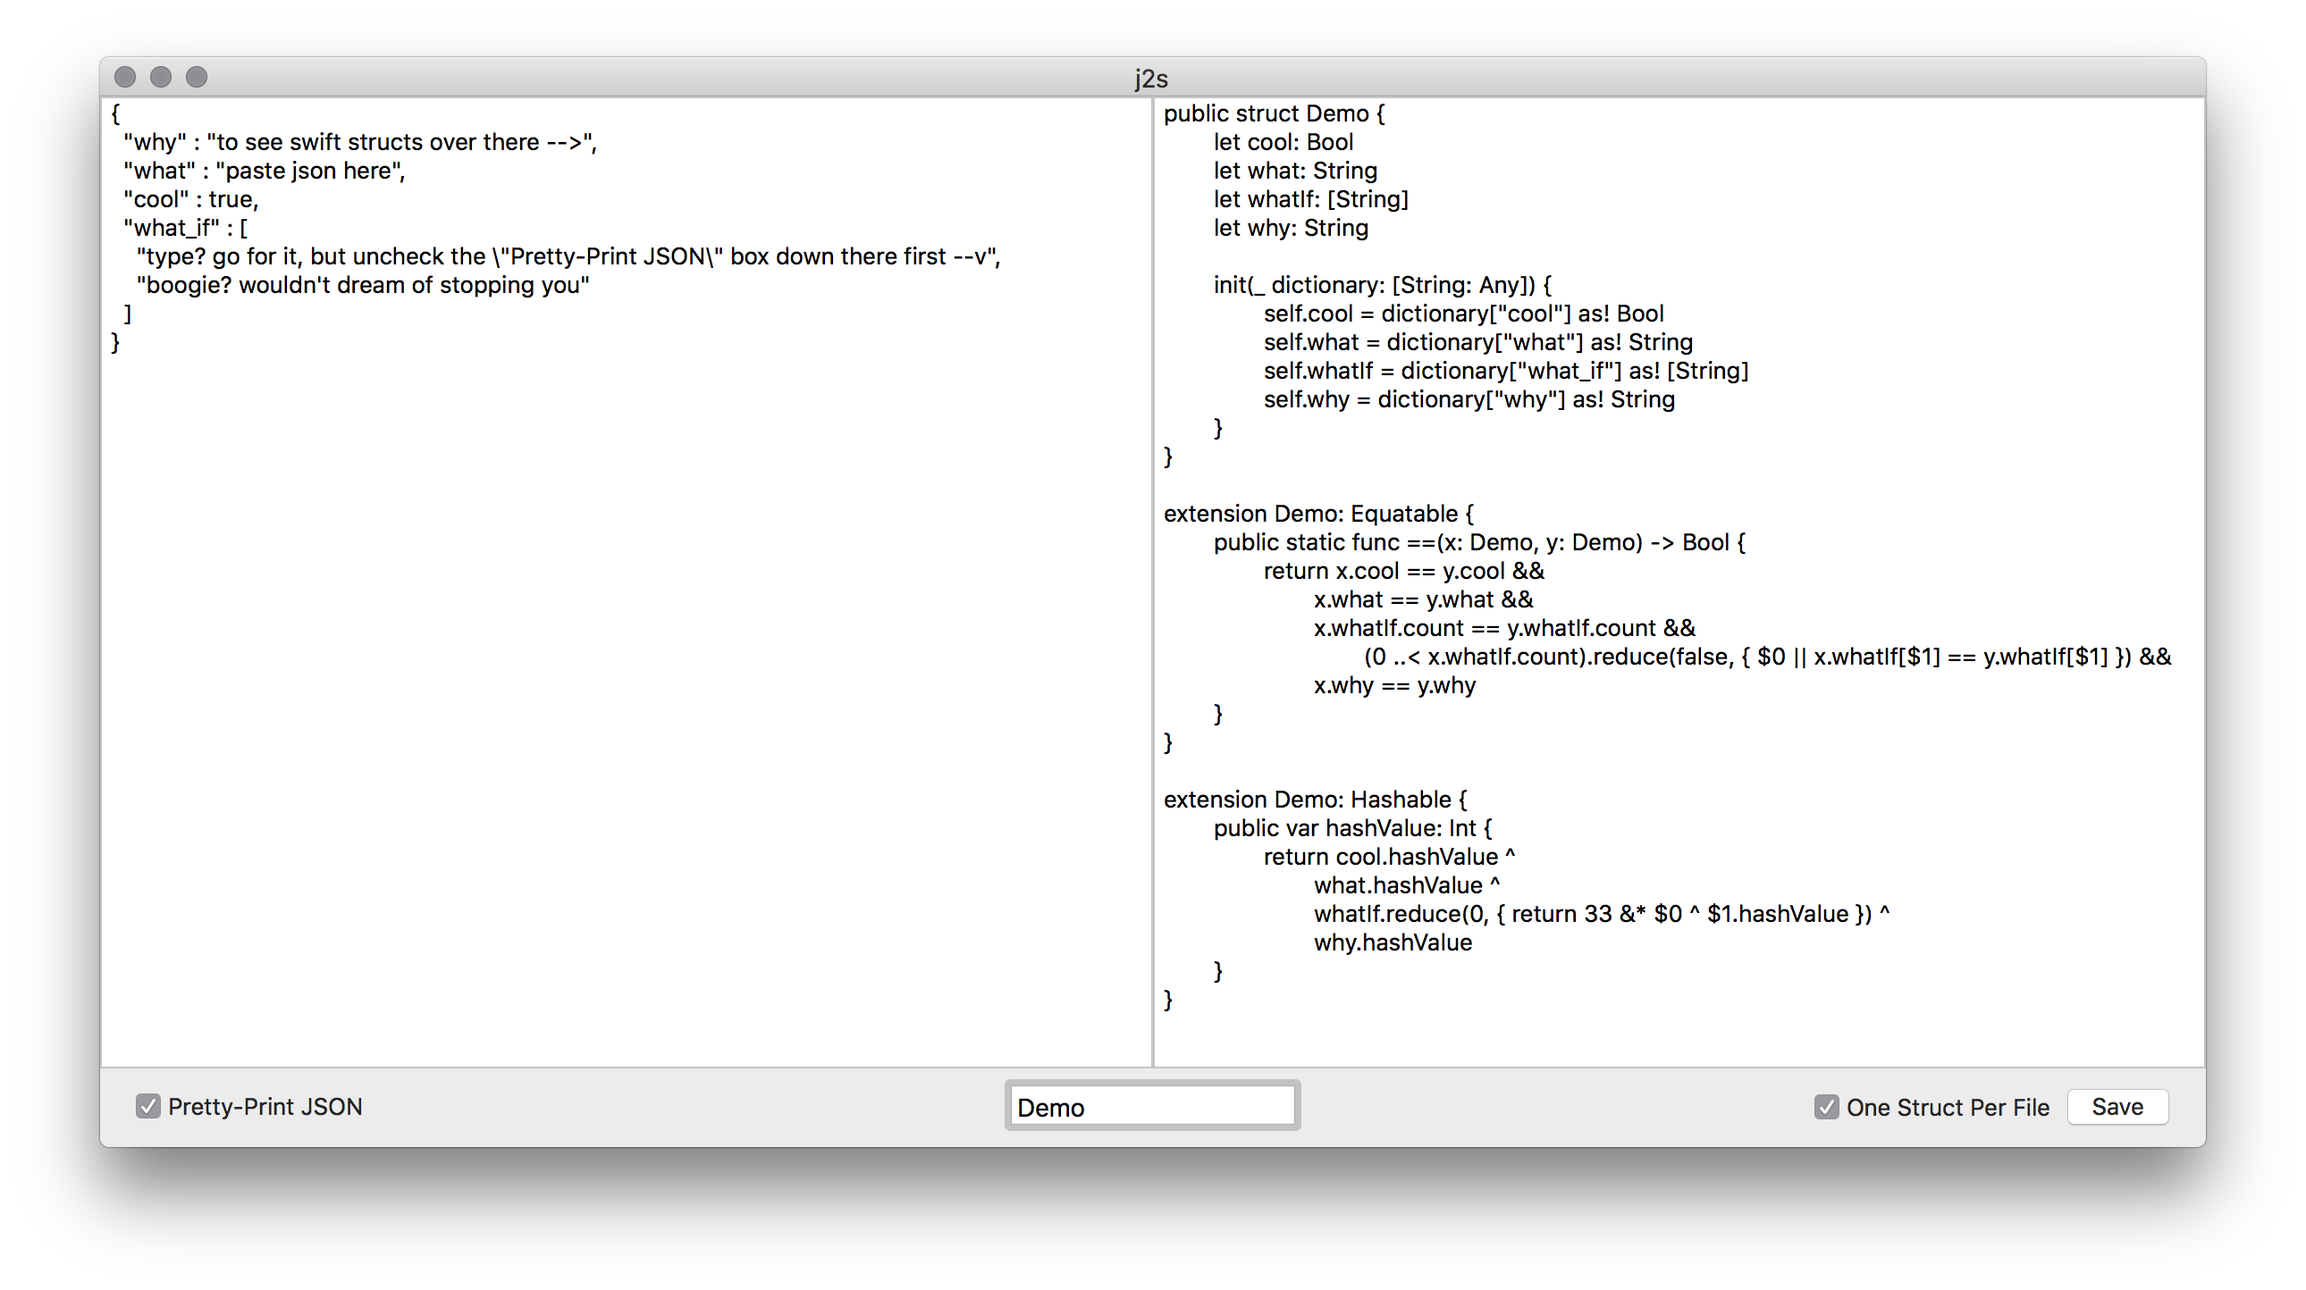
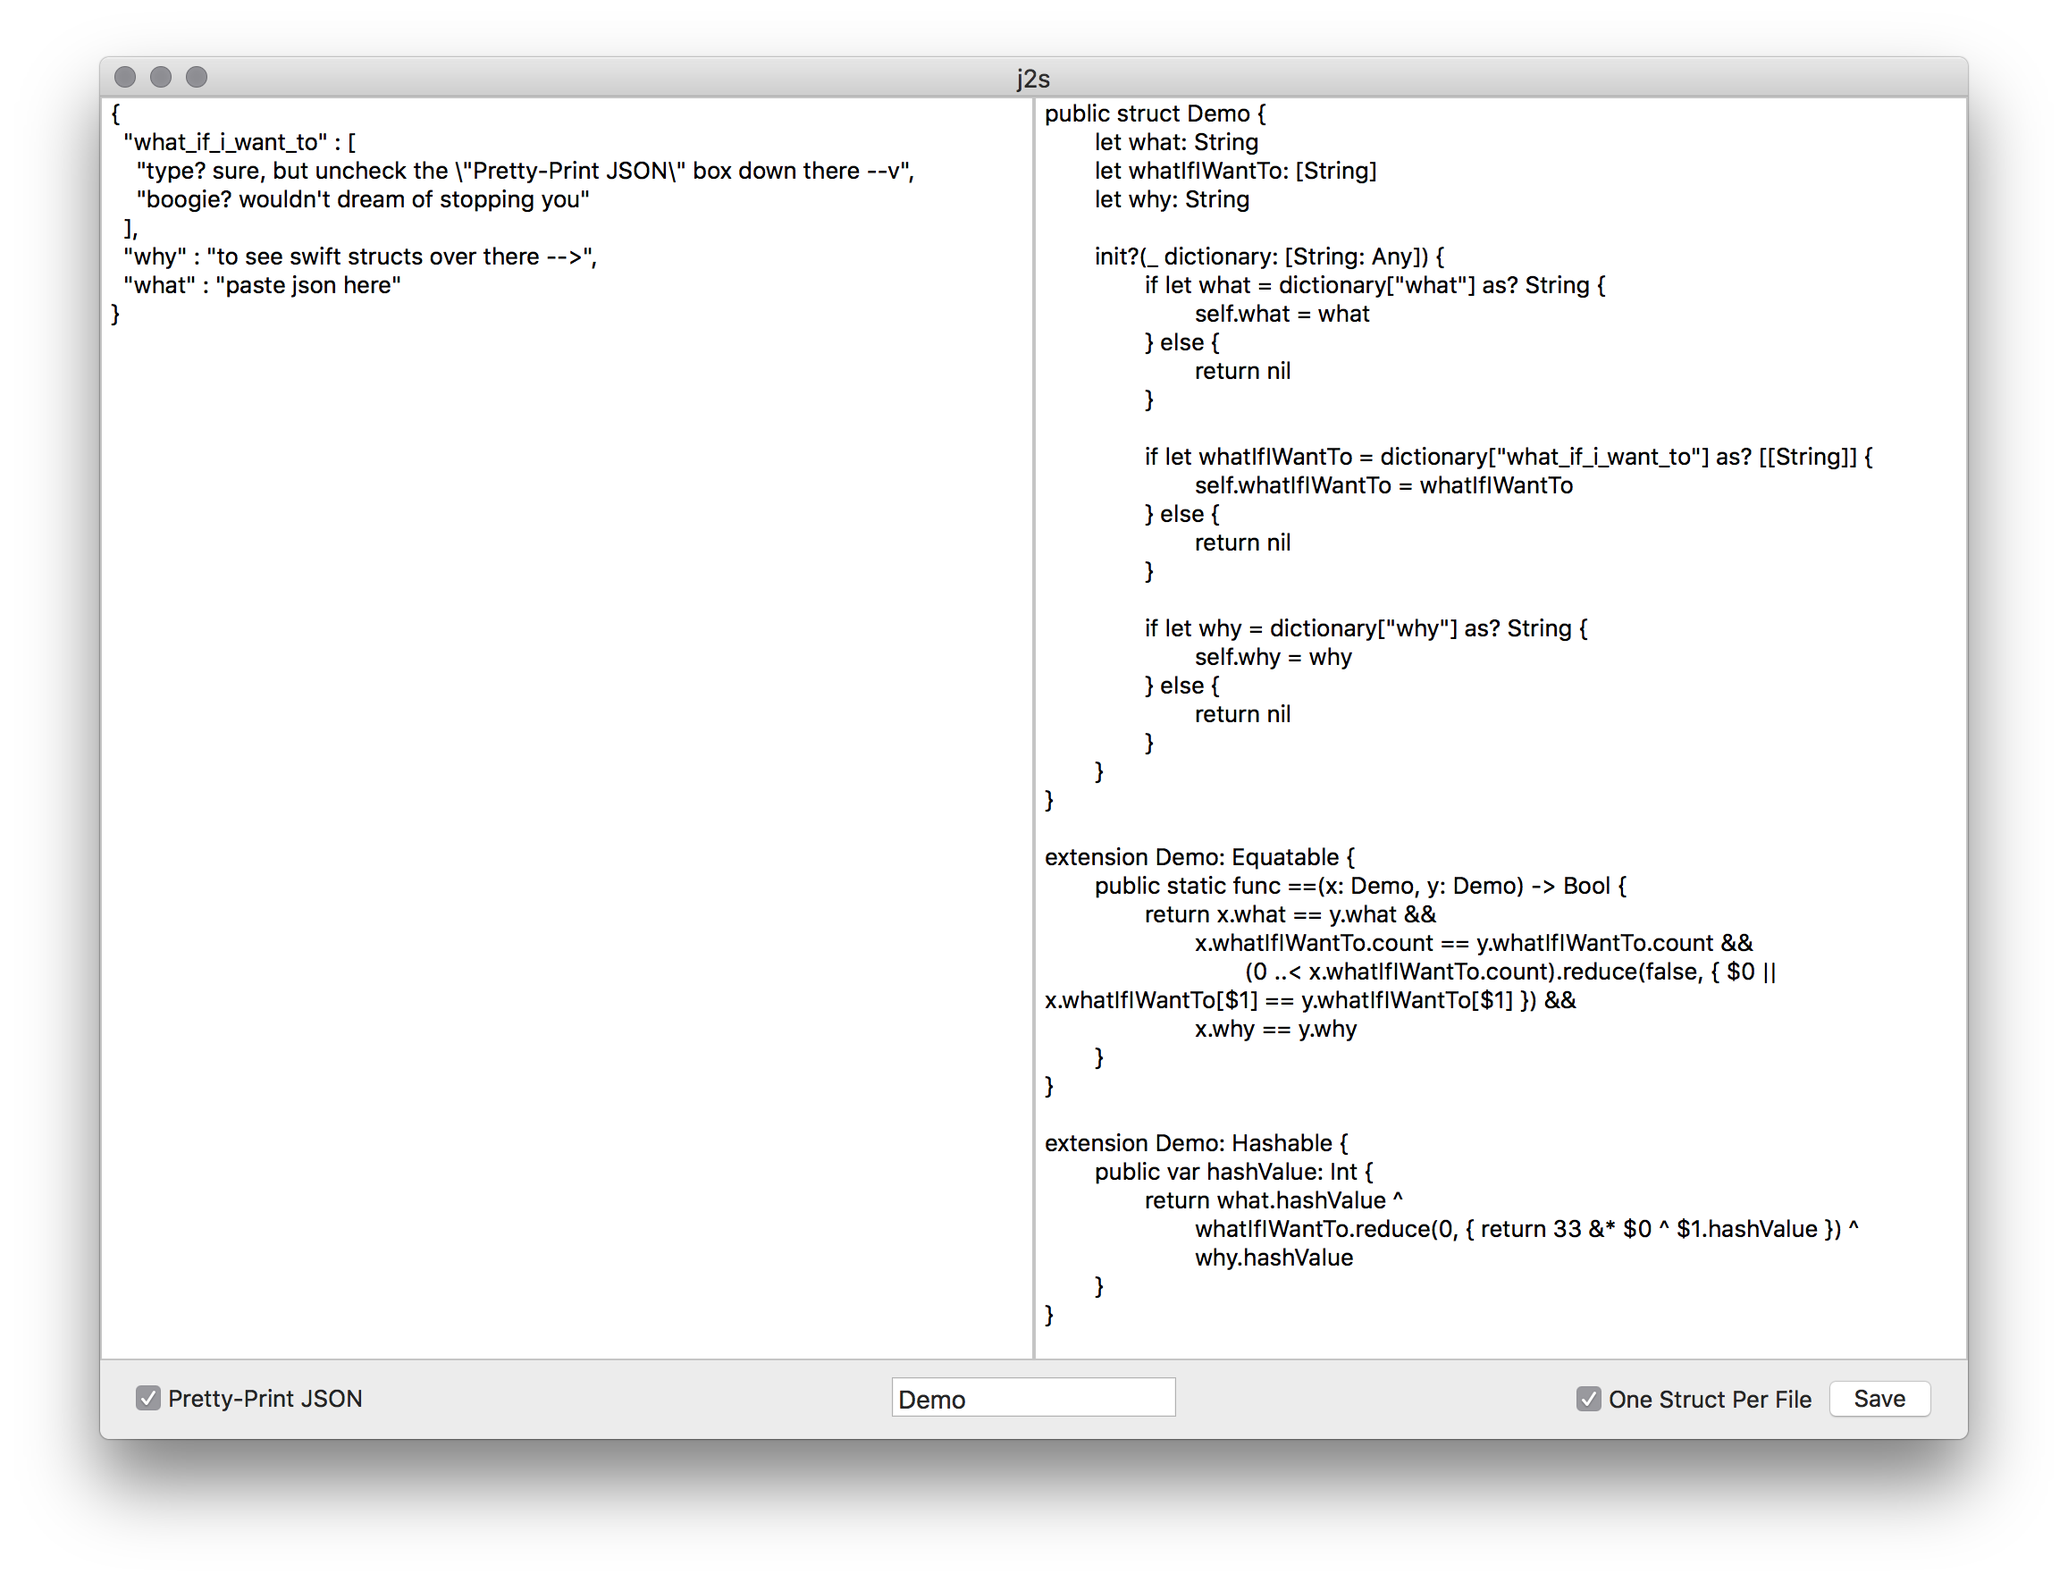
generate failable initializers instead of as!'ing

Changed region(s): [[0.0311, 0.0312, 0.9646, 0.9349], [0.7156, 0.7479, 0.8712, 0.7791]]

diff --git a/j2s/codegen.swift b/j2s/codegen.swift
@@ -7,14 +7,14 @@ public struct Struct: CustomStringConvertible {
     public var description: String {
         let typeName = name.generatedClassName()
         var d = ""
-        properties.forEach {
-            if !$0.dateFormat.isEmpty {
-                d += "\nprivate let \(typeName)DateFormatter\(abs($0.dateFormat.hashValue)): DateFormatter = {"
-                d += "\n\tvar dateFormatter = DateFormatter()"
-                d += "\n\tdateFormatter.dateFormat = \"\($0.dateFormat)\""
-                d += "\n\treturn dateFormatter"
-                d += "\n}()\n\n"
-            }
+        properties.filter {
+            return !$0.dateFormat.isEmpty
+        } .forEach {
+            d += "\nprivate let \(typeName)DateFormatter\(abs($0.dateFormat.hashValue)): DateFormatter = {"
+            d += "\n\tvar dateFormatter = DateFormatter()"
+            d += "\n\tdateFormatter.dateFormat = \"\($0.dateFormat)\""
+            d += "\n\treturn dateFormatter"
+            d += "\n}()\n\n"
         }
 
         d += "public struct \(typeName) {"
@@ -39,7 +39,7 @@ public struct Struct: CustomStringConvertible {
     }
 
     private var initCode: String {
-        var i = "\tinit(_ dictionary: [String: Any]) {"
+        var i = "\tinit?(_ dictionary: [String: Any]) {"
         i += initInitializationCode
         i += "\n\t}"
         return i
@@ -48,48 +48,80 @@ public struct Struct: CustomStringConvertible {
     private var initInitializationCode: String {
         let sorted = properties.sorted(by: { x, y in return x.name < y.name })
         let lets: [String] = sorted.map {
-            if $0.isArray {
-                if $0.internetPrimitive {
-                    let a = $0.isOptional ? "as?" : "as!"
-                    return "self.\($0.name.camelCased()) = dictionary[\"\($0.name)\"] \(a) \($0.type)"
-                }
-
-                if $0.isOptional {
-                    var letString = "\n\t\tif let \($0.name.camelCased()) = dictionary[\"\($0.name)\"] as? [[String: Any]] {"
-                    letString += "\n\t\t\tself.\($0.name.camelCased()) = \($0.name.camelCased()).flatMap { return \($0.name.generatedClassName())($0) }"
+            if !$0.dateFormat.isEmpty {
+                if $0.isArray && $0.isOptional {
+                    var letString = "\n\t\tif let \($0.name.camelCased()) = dictionary[\"\($0.name)\"] as? [String] {"
+                    letString += "\n\t\t\tself.\($0.name.camelCased()) = \($0.name.camelCased()).flatMap {"
+                    letString += "\n\t\t\t\treturn \(name.generatedClassName())DateFormatter\(abs($0.dateFormat.hashValue)).date(from: $0)"
+                    letString += "\n\t\t\t}"
+                    letString += "\n\t\t} else {"
+                    letString += "\n\t\t\tself.\($0.name.camelCased()) = nil"
+                    letString += "\n\t\t\t}"
+                    return letString
+                } else if $0.isOptional {
+                    var letString = "\n\t\tif let \($0.name.camelCased()) = dictionary[\"\($0.name)\"] as? String {"
+                    letString += "\n\t\t\tself.\($0.name.camelCased()) = \(name.generatedClassName())DateFormatter\(abs($0.dateFormat.hashValue)).date(from: \($0.name.camelCased()))"
                     letString += "\n\t\t} else {"
                     letString += "\n\t\t\tself.\($0.name.camelCased()) = nil"
                     letString += "\n\t\t}"
                     return letString
+                } else {
+                    var letString = "\n\t\tif let \($0.name.camelCased()) = dictionary[\"\($0.name)\"] as? String {"
+                    letString += "\n\t\t\tself.\($0.name.camelCased()) = \(name.generatedClassName())DateFormatter\(abs($0.dateFormat.hashValue)).date(from: \($0.name.camelCased()))"
+                    letString += "\n\t\t} else {"
+                    letString += "\n\t\t\treturn nil"
+                    letString += "\n\t\t}"
+                    return letString
                 }
-
-                var letString = "\n\t\tlet \($0.name.camelCased()) = dictionary[\"\($0.name)\"] as! [[String: Any]]"
-                letString += "\n\t\tself.\($0.name.camelCased()) = \($0.name.camelCased()).flatMap { return \($0.name.generatedClassName())($0) }"
+            } else if $0.isArray && $0.isOptional && $0.internetPrimitive {
+                var letString = "\n\t\tif let \($0.name.camelCased()) = dictionary[\"\($0.name)\"] as? [\($0.type)] {"
+                letString += "\n\t\t\tself.\($0.name.camelCased()) = \($0.name.camelCased())"
+                letString += "\n\t\t} else {"
+                letString += "\n\t\t\tself.\($0.name.camelCased()) = nil"
+                letString += "\n\t\t}"
                 return letString
-            } else if !$0.internetPrimitive {
-                if $0.isOptional {
-                    var letString = "\n\t\tif let \($0.name.camelCased()) = dictionary[\"\($0.name)\"] as? [String: Any] {"
-                    letString += "\n\t\t\tself.\($0.name.camelCased()) = \($0.type)(\($0.name.camelCased()))"
-                    letString += "\n\t\t} else {"
-                    letString += "\n\t\t\tself.\($0.name.camelCased()) = nil"
-                    letString += "\n\t\t}"
-                    return letString
-                }
-
-                return "self.\($0.name.camelCased()) = \($0.type)(dictionary[\"\($0.name)\"] as! [String: Any])"
-            } else if $0.isURL {
-                if $0.isOptional {
-                    return "self.\($0.name.camelCased()) = URL(string: (dictionary[\"\($0.name)\"] as? String))"
-                }
-                return "self.\($0.name.camelCased()) = URL(string: (dictionary[\"\($0.name)\"] as! String))!"
-            } else if !$0.dateFormat.isEmpty {
-                if $0.isOptional {
-                    return "self.\($0.name.camelCased()) = \(name.generatedClassName())DateFormatter\(abs($0.dateFormat.hashValue)).date(from: (dictionary[\"\($0.name)\"] as? String))"
-                }
-                return "self.\($0.name.camelCased()) = \(name.generatedClassName())DateFormatter\(abs($0.dateFormat.hashValue)).date(from: (dictionary[\"\($0.name)\"] as! String))!"
-            } else {
-                let a = $0.isOptional ? "as?" : "as!"
-                return "self.\($0.name.camelCased()) = dictionary[\"\($0.name)\"] \(a) \($0.type)"
+            } else if $0.isArray && $0.isOptional {
+                var letString = "\n\t\tif let \($0.name.camelCased()) = dictionary[\"\($0.name)\"] as? [[String: Any]] {"
+                letString += "\n\t\t\tself.\($0.name.camelCased()) = \($0.name.camelCased()).flatMap { return \($0.name.generatedClassName())($0) }"
+                letString += "\n\t\t} else {"
+                letString += "\n\t\t\tself.\($0.name.camelCased()) = nil"
+                letString += "\n\t\t}"
+                return letString
+            } else if $0.isArray && $0.internetPrimitive {
+                var letString = "\n\t\tif let \($0.name.camelCased()) = dictionary[\"\($0.name)\"] as? [\($0.type)] {"
+                letString += "\n\t\t\tself.\($0.name.camelCased()) = \($0.name.camelCased())"
+                letString += "\n\t\t} else {"
+                letString += "\n\t\t\treturn nil"
+                letString += "\n\t\t}"
+                return letString
+            } else if $0.isOptional && $0.internetPrimitive {
+                var letString = "\n\t\tif let \($0.name.camelCased()) = dictionary[\"\($0.name)\"] as? \($0.type) {"
+                letString += "\n\t\t\tself.\($0.name.camelCased()) = \($0.name.camelCased())"
+                letString += "\n\t\t} else {"
+                letString += "\n\t\t\tself.\($0.name.camelCased()) = nil"
+                letString += "\n\t\t}"
+                return letString
+            } else if $0.internetPrimitive {
+                var letString = "\n\t\tif let \($0.name.camelCased()) = dictionary[\"\($0.name)\"] as? \($0.type) {"
+                letString += "\n\t\t\tself.\($0.name.camelCased()) = \($0.name.camelCased())"
+                letString += "\n\t\t} else {"
+                letString += "\n\t\t\treturn nil"
+                letString += "\n\t\t}"
+                return letString
+            } else if $0.isOptional {
+                var letString = "\n\t\tif let \($0.name.camelCased()) = dictionary[\"\($0.name)\"] as? [String: Any] {"
+                letString += "\n\t\t\tself.\($0.name.camelCased()) = \($0.name.generatedClassName())(\($0.name.camelCased()))"
+                letString += "\n\t\t} else {"
+                letString += "\n\t\t\tself.\($0.name.camelCased()) = nil"
+                letString += "\n\t\t}"
+                return letString
+            } else { // single non-optional object
+                var letString = "\n\t\tif let \($0.name.camelCased()) = dictionary[\"\($0.name)\"] as? [String: Any] {"
+                letString += "\n\t\t\tself.\($0.name.camelCased()) = \($0.name.generatedClassName())(\($0.name.camelCased()))"
+                letString += "\n\t\t} else {"
+                letString += "\n\t\t\treturn nil"
+                letString += "\n\t\t}"
+                return letString
             }
         }
 
@@ -151,19 +183,19 @@ public struct Struct: CustomStringConvertible {
 public struct Property: Equatable, Hashable {
     let name: String
     let type: String
+
     let internetPrimitive: Bool
-    let dateFormat: String
     let isArray: Bool
-    let isURL: Bool
     let isOptional: Bool
 
-    init(name: String, type: String, dateFormat: String = "", internetPrimitive: Bool = true, isArray: Bool = false, isURL: Bool = false, isOptional: Bool = false) {
+    let dateFormat: String
+
+    init(name: String, type: String, dateFormat: String = "", internetPrimitive: Bool = true, isArray: Bool = false, isOptional: Bool = false) {
         self.name = name
         self.type = type
         self.dateFormat = dateFormat
         self.internetPrimitive = internetPrimitive
         self.isArray = isArray
-        self.isURL = isURL
         self.isOptional = isOptional
     }
 
@@ -173,7 +205,6 @@ public struct Property: Equatable, Hashable {
             x.dateFormat == y.dateFormat &&
             x.internetPrimitive == y.internetPrimitive &&
             x.isArray == y.isArray &&
-            x.isURL == y.isURL &&
             x.isOptional == y.isOptional
     }
 
@@ -183,7 +214,6 @@ public struct Property: Equatable, Hashable {
             dateFormat.hashValue ^
             internetPrimitive.hashValue ^
             isArray.hashValue ^
-            isURL.hashValue ^
             isOptional.hashValue
     }
 }

diff --git a/j2s/structify.swift b/j2s/structify.swift
@@ -12,7 +12,7 @@ func structify(name: String = "root", json: [String: Any]) -> [Struct] {
             case .string(_): properties.insert(Property(name: name, type: "String"))
             case .null: properties.insert(Property(name: name, type: "NSNull"))
             case .date(_, let format): properties.insert(Property(name: name, type: "Date", dateFormat: format))
-            case .url(_): properties.insert(Property(name: name, type: "URL", isURL: true))
+            case .url(_): properties.insert(Property(name: name, type: "URL", internetPrimitive: false))
             case .dictionary(let d):
                 properties.insert(Property(name: name, type: name.generatedClassName(), internetPrimitive: false))
                 structs.append(contentsOf: structify(name: name, json: d))
@@ -42,7 +42,7 @@ func structify(name: String = "root", json: [String: Any]) -> [Struct] {
                         case .double(_): properties.insert(Property(name: name, type: "[Double]", isArray: true))
                         case .string(_): properties.insert(Property(name: name, type: "[String]", isArray: true))
                         case .date(_): properties.insert(Property(name: name, type: "[Date]", isArray: true))
-                        case .url(_):  properties.insert(Property(name: name, type: "[URL]", isArray: true))
+                        case .url(_):  properties.insert(Property(name: name, type: "[URL]", internetPrimitive: false, isArray: true))
                         case .array(let a):
                             let subjson = JSON(value: a)!
                             let type = handleJSON!(name, subjson)

diff --git a/README.md b/README.md
@@ -22,13 +22,12 @@ j2s can take in the following JSON:
 
 ```json
 {
-  "what" : "paste json here",
-  "why" : "to see swift structs over there -->",
   "what_if_i_want_to" : [
-    "type? go for it, but uncheck the \"Pretty-Print JSON\" box down there first --v",
+    "type? sure, but uncheck the \"Pretty-Print JSON\" box down there --v",
     "boogie? wouldn't dream of stopping you"
   ],
-  "cool" : true
+  "why" : "to see swift structs over there -->",
+  "what" : "paste json here"
 }
 ```
 
@@ -36,33 +35,43 @@ and turn it into Swift code that looks like this:
 
 ```swift
 public struct Demo {
-	let cool: Bool
 	let what: String
 	let whatIfIWantTo: [String]
 	let why: String
 
-	init(_ dictionary: [String: Any]) {
-		self.cool = dictionary["cool"] as! Bool
-		self.what = dictionary["what"] as! String
-		self.whatIfIWantTo = dictionary["what_if_i_want_to"] as! [String]
-		self.why = dictionary["why"] as! String
+	init?(_ dictionary: [String: Any]) {
+		if let what = dictionary["what"] as? String {
+			self.what = what
+		} else {
+			return nil
+		}
+		
+		if let whatIfIWantTo = dictionary["what_if_i_want_to"] as? [[String]] {
+			self.whatIfIWantTo = whatIfIWantTo
+		} else {
+			return nil
+		}
+		
+		if let why = dictionary["why"] as? String {
+			self.why = why
+		} else {
+			return nil
+		}
 	}
 }
 
 extension Demo: Equatable {
- 	static func ==(x: Demo, y: Demo) -> Bool {
-		return x.cool == y.cool && 
-			x.what == y.what && 
+ 	public static func ==(x: Demo, y: Demo) -> Bool {
+		return x.what == y.what && 
 			x.whatIfIWantTo.count == y.whatIfIWantTo.count && 
-				(0 ..< whatIfIWantTo.count).reduce(false, { $0 || x.whatIfIWantTo[$1] == y.whatIfIWantTo[$1] }) && 
+				(0 ..< x.whatIfIWantTo.count).reduce(false, { $0 || x.whatIfIWantTo[$1] == y.whatIfIWantTo[$1] }) && 
 			x.why == y.why
 	} 
 }
 
 extension Demo: Hashable {
- 	var hashValue: Int {
-		return cool.hashValue ^ 
-			what.hashValue ^ 
+ 	public var hashValue: Int {
+		return what.hashValue ^ 
 			whatIfIWantTo.reduce(0, { return 33 &* $0 ^ $1.hashValue }) ^ 
 			why.hashValue
 	} 
@@ -104,9 +113,12 @@ will generate this Swift code:
 public struct Demo {
 	let foo: [Foo]
 
-	init(_ dictionary: [String: Any]) {
-		let foo = dictionary["foo"] as! [[String: Any]]
-		self.foo = foo.flatMap { return Foo($0) }
+	init?(_ dictionary: [String: Any]) {
+		if let foo = dictionary["foo"] as? [String: Any] {
+			self.foo = Foo(foo)
+		} else {
+			return nil
+		}
 	}
 }
 
@@ -131,11 +143,30 @@ public struct Foo {
 	let color: String?
 	let gizmo: String?
 
-	init(_ dictionary: [String: Any]) {
-		self.bar = dictionary["bar"] as! Int
-		self.baz = dictionary["baz"] as? Bool
-		self.color = dictionary["color"] as? String
-		self.gizmo = dictionary["gizmo"] as? String
+	init?(_ dictionary: [String: Any]) {
+		if let bar = dictionary["bar"] as? Int {
+			self.bar = bar
+		} else {
+			return nil
+		}
+		
+		if let baz = dictionary["baz"] as? Bool {
+			self.baz = baz
+		} else {
+			self.baz = nil
+		}
+		
+		if let color = dictionary["color"] as? String {
+			self.color = color
+		} else {
+			self.color = nil
+		}
+		
+		if let gizmo = dictionary["gizmo"] as? String {
+			self.gizmo = gizmo
+		} else {
+			self.gizmo = nil
+		}
 	}
 }
 
